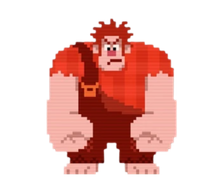
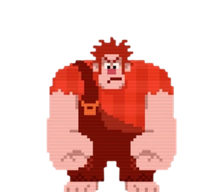
Fix bugs for graphics

Changed region(s): [[0.1909, 0.0938, 0.8182, 1.0], [0.7636, 0.5, 0.8182, 0.625]]

diff --git a/states/playing_state.py b/states/playing_state.py
@@ -2,8 +2,11 @@
 
 import pygame
 import math
+import os
 
 from config import (
+    SCREEN_HEIGHT,
+    SCREEN_WIDTH,
     GAME_DURATION,
     EASY_END,
     MEDIUM_END,
@@ -47,6 +50,25 @@ class PlayingState(GameState):
         #in order to prevent previous playing state's objects (before restarting) still active after restart,
         #we decided to initialize here. so all objects will be new when the PlayingState is active again.
         #create a fresh building
+        
+        asset_path = os.path.join(
+            os.path.dirname(__file__),
+            "..",
+            "assets",
+            "images",
+            "background",
+            "background.png"
+        )
+        
+        self._background = pygame.image.load(
+            asset_path
+        ).convert()
+        
+        self._background = pygame.transform.scale(
+            self._background,
+            (SCREEN_WIDTH, SCREEN_HEIGHT)
+        )
+        
         self._building = Building()
         
         #create felix
@@ -158,6 +180,9 @@ class PlayingState(GameState):
         
     def draw(self, screen):
         """Draw building, entities and gameplay HUD."""
+        
+        screen.blit(self._background, (0,0))
+        
         self._draw_entity_collection(screen)
         self._draw_debris(screen)
 

diff --git a/config.py b/config.py
@@ -21,10 +21,10 @@ GROUND_Y = 650                          # top of the sidewalk in the background 
 
 # time / difficulty
 INTRO_DELAY = 5.0
-GAME_DURATION = 90.0
+GAME_DURATION = 60.0
 
-EASY_END = 30.0
-MEDIUM_END = 60.0
+EASY_END = 20.0
+MEDIUM_END = 40.0
 
 EASY_DEBRIS_SPEED = 120.0
 MEDIUM_DEBRIS_SPEED = 190.0
@@ -35,7 +35,7 @@ MEDIUM_SPAWN_INTERVAL = 1.8
 HARD_SPAWN_INTERVAL = 1.2
 
 # Felix (player)
-FELIX_SIZE = (58, 76)
+FELIX_SIZE = (75, 98)
 FELIX_SPEED = 260
 PLAYER_INVULNERABILITY_TIME = 1.5       # seconds of immunity after being hit
 FIX_TIME = 0.35                         # seconds the hammer swing takes
@@ -43,13 +43,13 @@ FIX_RANGE = 60                          # max distance (px) from a window centre
 MAX_LIVES = 3
 
 # Ralph
-RALPH_SIZE = (110, 96)
+RALPH_SIZE = (140, 122)
 
 # Bricks
 BRICK_SIZE = (34, 22)
 
 # colours
-BACKGROUND_COLOR = (135, 206, 235)
+BACKGROUND_COLOR = (15, 35, 75)
 WHITE = (255, 255, 255)
 BLACK = (0, 0, 0)
 YELLOW = (255, 214, 64)

diff --git a/entities/ralph.py b/entities/ralph.py
@@ -30,7 +30,7 @@ class Ralph(GameObject):
         self._state = RalphState.CLIMBING
 
         # Movement
-        self._move_speed = 100.0
+        self._move_speed = 200.0
         self._direction = 1
         self._target_x = x
         self._target_y = y
